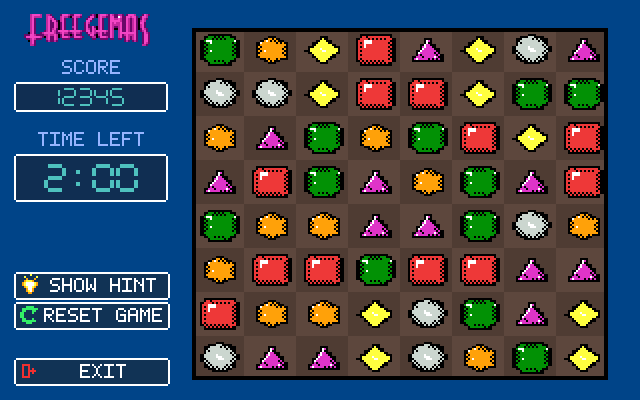
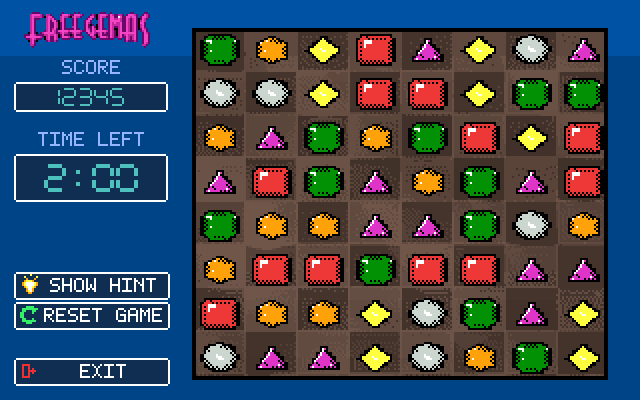
iigs: align board shading with VERA

diff --git a/iigs/tools/committed_art.py b/iigs/tools/committed_art.py
@@ -14,9 +14,8 @@ Outputs (iigs/merlin32/generated/):
   preview_tt.png   2x preview of the packed Time Trial scene
   gs2_offsets.json emulator automation data (find patterns, board, legal swaps)
 
-Board cells are flat two-tone wood with grid lines so the game can redraw any
-cell procedurally (blankCell in main.s) with an exact match to the streamed
-scene. HUD digit areas are flattened to the panel mid colour so the runtime
+Board cells retain source-aligned wood shading using the per-scanline palettes.
+The cached scene supplies exact pixels to blankCell in main.s after a move. HUD digit areas are flattened to the panel mid colour so the runtime
 erase is a plain fill. Ghost LCD digits in the panel art are removed for the
 same reason (they conflict with incremental digit redraw at this resolution).
 
@@ -59,7 +58,7 @@ TIME_FONT_SIZE, TIME_DIGIT_H = 62, 15
 
 # Fixed palette slot semantics on board scanlines (0..13); 14/15 are per-region
 # extras. Slot 13 stays reserved for the green hint frame drawn by the game.
-S_BLACK, S_WHITE, S_WOOD, S_WOODD, S_BLUE, S_BLUED, S_HINT = 0, 1, 9, 10, 11, 12, 13
+S_BLACK, S_WHITE, S_WOOD, S_WOODD, S_WOODL, S_BLUE, S_HINT = 0, 1, 9, 10, 11, 12, 13
 
 LAVENDER = (160, 169, 255)     # original score/time header colour
 CYAN = (78, 193, 190)          # original score/time digit colour
@@ -196,8 +195,7 @@ def quant(px, allowed, x, y):
 # Slot map shared by every game-screen zone (the runtime blitter, digit eraser
 # and hint frame hard-code these nibbles):
 #   0 black        1 white        2..8 gem bodies (gem 1..7)
-#   9/10 wood checker             11 background blue
-#   12 light blue (background rays and plaque/button border)
+#   9/10/11 wood tones            12 blue background / logo ink
 #   13 hint green  14/15 zone extras (logo tones, HUD accent, button accent)
 BLACK = (0, 0, 0)
 WHITE = (255, 255, 255)
@@ -207,7 +205,6 @@ LABEL_BLUE = (150, 180, 255)   # "Score" / "Time left" header text
 PANEL_FILL = (16, 46, 82)      # HUD plaque interior == the digit erase colour
 CYAN = (78, 193, 190)          # LCD digits (slot 14 on the HUD rows)
 HINT_GREEN = (51, 238, 102)    # hint frame (slot 13 on every row)
-BTN_FILL = (17, 51, 85)         # button plaque interior (dark navy, like VERA)
 PANEL_EDGE = (95, 150, 210)    # plaque/button border (slot 12 on every zone)
 LOGO_TONES = [(243, 69, 196), (195, 40, 158), (105, 8, 104)]
 
@@ -271,21 +268,33 @@ def build_palettes(base_rgb, menu_rgb):
             px = [base_rgb.getpixel((x, y)) for x in range(x0, x1 + 1)]
             return tuple(int(sum(p[i] for p in px) / len(px)) for i in range(3))
 
-        dark = [row_blue(y) for y in range(max(0, y0 - 1), min(SCREEN_H, y1 + 2))][1:-1]
-        lo = min(dark, key=lum)
-        p = [BLACK, WHITE] + gems + [wood_mid, wood_dark, row_blue(y0), row_blue(y1), HINT_GREEN]
+        # Keep three source-fitted wood shades in slots 9..11. Slot 12 is the
+        # backdrop ink (and a logo shade in the top band), leaving a fourth
+        # wood tone in plain bands for more texture.
+        # Fit each SCB band locally so wood lighting changes smoothly down the
+        # original board instead of collapsing to a two-colour checker.
+        wood_rows = range(max(BOARD_Y + 2, y0 - 1), min(BOARD_Y + BOARD_H - 2, y1 + 2))
+        wood_samples = [base_rgb.getpixel((x, y)) for y in wood_rows
+                        for x in range(BOARD_X + 2, BOARD_X + BOARD_W - 2, 2)]
+        row_wood = kmeans(wood_samples, 4) if wood_samples else (wood_deep, wood_dark, wood_mid, wood_light)
+        p = [BLACK, WHITE] + gems + [row_wood[2], row_wood[0], row_wood[3], row_blue(y1), HINT_GREEN]
         if kind == "logo":
+            p[11] = row_blue(y0)               # top band still needs a blue backdrop
             p[12] = LOGO_TONES[0]              # no rays on the logo band
             p += [LOGO_TONES[1], LOGO_TONES[2]]
         elif kind == "label":
+            p[12] = (0, 68, 136)
             p += [LABEL_BLUE, PANEL_FILL]
         elif kind == "digits":
+            p[12] = (0, 68, 136)
             p += [CYAN, PANEL_FILL]
         elif kind == "plain":
-            p += [wood_light, wood_deep]
+            p[12] = (0, 68, 136)
+            p += [row_wood[1], PANEL_FILL]
         else:
             k = int(kind[-1])
-            p += [ACCENTS[k][0], BTN_FILL]
+            p[12] = (0, 68, 136)
+            p += [ACCENTS[k][0], PANEL_FILL]
         assert len(p) == 16, (kind, len(p))
         palettes.append(p)
     assert len(palettes) <= 16
@@ -339,8 +348,7 @@ def build_scene(ctx, time_panel):
     wood_deep, wood_dark, wood_mid, wood_light = ctx["wood"]
     grid = [[0] * SCREEN_W for _ in range(SCREEN_H)]
 
-    # Background: solid zone blue, plus the art's brighter diagonal rays mapped
-    # to the light-blue slot. Nearest-colour, never ordered dithering.
+    # Background uses the blue ink in slot 12; slot 11 is a third wood tone.
     zstart = {}
     for y0, y1, kind in ZONES:
         for y in range(y0, y1 + 1):
@@ -349,13 +357,13 @@ def build_scene(ctx, time_panel):
         y0, span = zstart[y]
         frac = (y - y0 + 0.5) / span
         thr = int(frac * 16)
-        # the logo band keeps slot 12 for a logo tone, so no dithering there
+        # the logo band keeps its dedicated blue background and logo tones
         if ZONE_KIND[y] == "logo":
             for x in range(SCREEN_W):
                 grid[y][x] = 11
             continue
         for x in range(SCREEN_W):
-            grid[y][x] = 12 if BAYER[y % 4][x % 4] < thr else 11
+            grid[y][x] = 12 if BAYER[y % 4][x % 4] < thr else 15
 
     # Logo band (rows 0..27): quantise the pink wordmark to three logo tones
     # plus white/black -- no dithering, so the wordmark stays crisp.
@@ -371,17 +379,43 @@ def build_scene(ctx, time_panel):
                 c = base.getpixel((x, y))
                 grid[y][x] = min(logo_choices, key=lambda e: dist(c, e[0]))[1]
 
-    # Board: 2px dark rim plus the wood checker (no per-cell lines).
+    # Board: retain the source wood and cell shading. The cached scene is also
+    # the exact restoration image used after gem moves, so textured cells need
+    # no separate runtime redraw path.
+    errors = [[0.0, 0.0, 0.0] for _ in range(BOARD_W + 2)]
+    next_errors = [[0.0, 0.0, 0.0] for _ in range(BOARD_W + 2)]
+    previous_bank = -1
     for y in range(BOARD_Y, BOARD_Y + BOARD_H):
+        if scb[y] != previous_bank:
+            errors = [[0.0, 0.0, 0.0] for _ in range(BOARD_W + 2)]
+            next_errors = [[0.0, 0.0, 0.0] for _ in range(BOARD_W + 2)]
+            previous_bank = scb[y]
         gy = y - BOARD_Y
         for x in range(BOARD_X, BOARD_X + BOARD_W):
             gx = x - BOARD_X
             if gx < 2 or gx >= BOARD_W - 2 or gy < 2 or gy >= BOARD_H - 2:
                 grid[y][x] = 0
-            elif ((gy // CELL_H) + (gx // CELL_W)) % 2:
-                grid[y][x] = 10
             else:
-                grid[y][x] = 9
+                if ZONE_KIND[y] == "logo":
+                    candidates = (9, 10)
+                else:
+                    candidates = (9, 10, 11, 14) if ZONE_KIND[y] == "plain" else (9, 10, 11)
+                pos = gx + 1
+                source = base.getpixel((x, y))
+                colour = tuple(max(0, min(255, source[k] + errors[pos][k])) for k in range(3))
+                slot = min(candidates, key=lambda i: dist(colour, palettes[scb[y]][i]))
+                grid[y][x] = slot
+                chosen = palettes[scb[y]][slot]
+                # Diffuse palette error only through the static board artwork;
+                # preserve the two-pixel rim and 1px cell grid as crisp lines.
+                if (gx % CELL_W >= 2 and gy % CELL_H >= 2):
+                    error = [colour[k] - chosen[k] for k in range(3)]
+                    for k in range(3):
+                        errors[pos + 1][k] += error[k] * 7 / 16
+                        next_errors[pos - 1][k] += error[k] * 3 / 16
+                        next_errors[pos][k] += error[k] * 5 / 16
+                        next_errors[pos + 1][k] += error[k] / 16
+        errors, next_errors = next_errors, [[0.0, 0.0, 0.0] for _ in range(BOARD_W + 2)]
 
     # Left HUD column.
     draw_text_grid(grid, "Score", PANEL_X + (PANEL_W - text_w("Score")) // 2, 30, LABEL_SLOT)

diff --git a/iigs/tools/hud_art.py b/iigs/tools/hud_art.py
@@ -49,10 +49,10 @@ def string_origin(value,masks,pitch):
 
 def polish_sidebar(packed, palettes, glyphs, time_panel):
     grid=[[(packed[y*160+x//2]>>(4 if x%2==0 else 0))&15 for x in range(320)] for y in range(200)]
-    for palette in palettes: palette[11]=(0,68,136)
     for y,row in enumerate(grid):
-        row[:96]=[11]*96; row[304:]=[11]*16
-        if y<14 or y>=190: row[96:304]=[11]*208
+        bg = 11 if y < 28 else 12
+        row[:96]=[bg]*96; row[304:]=[bg]*16
+        if y<14 or y>=190: row[96:304]=[11 if y < 28 else 12]*208
     def rect(x0,y0,x1,y1,colour):
         for y in range(y0,y1): grid[y][x0:x1]=[colour]*(x1-x0)
     def text(value,x,y,colour=1,scale_y=1):
@@ -63,7 +63,7 @@ def polish_sidebar(packed, palettes, glyphs, time_panel):
             x+=6
     def plaque(x,y,w,h):
         rect(x,y,x+w,y+h,1); rect(x+1,y+1,x+w-1,y+h-1,15)
-        for xx,yy in ((x,y),(x+w-1,y),(x,y+h-1),(x+w-1,y+h-1)): grid[yy][xx]=11
+        for xx,yy in ((x,y),(x+w-1,y),(x,y+h-1),(x+w-1,y+h-1)): grid[yy][xx]=12
     # Use the original in-game wordmark, not the menu-logo alpha crop whose
     # faint outer pixels produced a bright patch at the upper-right S.
     logo=Image.open(Path(__file__).resolve().parents[2]/'media/board.png').convert('RGB')

diff --git a/README.md b/README.md
@@ -86,7 +86,7 @@ Licensed under [Creative Commons: By Attribution 3.0](https://creativecommons.or
 
 ## Apple IIGS port
 
-An Apple IIGS port is maintained in [`iigs/`](iigs/). Read [`iigs/AGENTS.md`](iigs/AGENTS.md) for the current implementation notes and build instructions. The 320x200 Super Hi-Res game uses the same flat gem artwork in gameplay and the How to Play diagrams. The Options screen credits the IIGS port to anomixer and uses the larger VERA-aligned menu text.
+An Apple IIGS port is maintained in [`iigs/`](iigs/). Read [`iigs/AGENTS.md`](iigs/AGENTS.md) for the current implementation notes and build instructions. The 320x200 Super Hi-Res game uses the same flat gem artwork in gameplay and the How to Play diagrams. The gameplay board uses source-aligned wood shading with its color and contrast tuned to the VERA port; the flat gem artwork remains unchanged. The Options screen credits the IIGS port to anomixer and uses the larger VERA-aligned menu text.
 
 The IIGS Finder icon uses the game's square red gem. The build streams its DOC music through alternating 4 KiB wave tables. Table changes are synchronized to the DOC end interrupt, while PCM preparation stays in the foreground. Sound effects use separate DOC oscillator pairs. The current audio IRQ build was tested in GSplus: after a continuous capture, the user played a full round and reported no music skips, including during gameplay. Exit with the callback installed, other emulators, and real IIGS hardware still need verification. See [`iigs/AGENTS.md`](iigs/AGENTS.md) for implementation details and the latest validation status.
 

diff --git a/iigs/AGENTS.md b/iigs/AGENTS.md
@@ -9,6 +9,7 @@
 - 遊戲資料、音效、音樂與 `HISCORE.DAT` 放在 `/DATA`；磁碟根目錄保留 `FREEGEM.S16`、`README.TXT` 和系統檔案。GS/OS 透過檔案呼叫讀取資產。
 - 現有功能含 Title、How to Play、Options、Time Trial、Endless、match/cascade、hint、reset、Game Over、滑鼠點選與相鄰寶石拖曳交換。鍵盤支援 WASD 與方向鍵。
 - 寶石採使用者核定的 2D 方塊像素風格。How to Play 使用與遊戲相同的 gem raster/palette。側欄 Show Hint 是發光燈泡，Reset Game 是圓形箭頭；其他場景可見的微小角落像素屬已知外觀，不要特別增加清理程式。
+- 棋盤木紋的來源位置與色調依 VERA 版對齊；使用分區 SHR palette 和離線色彩誤差擴散，動態消除仍從快取背景還原像素。
 
 ## 目錄與產物
 
